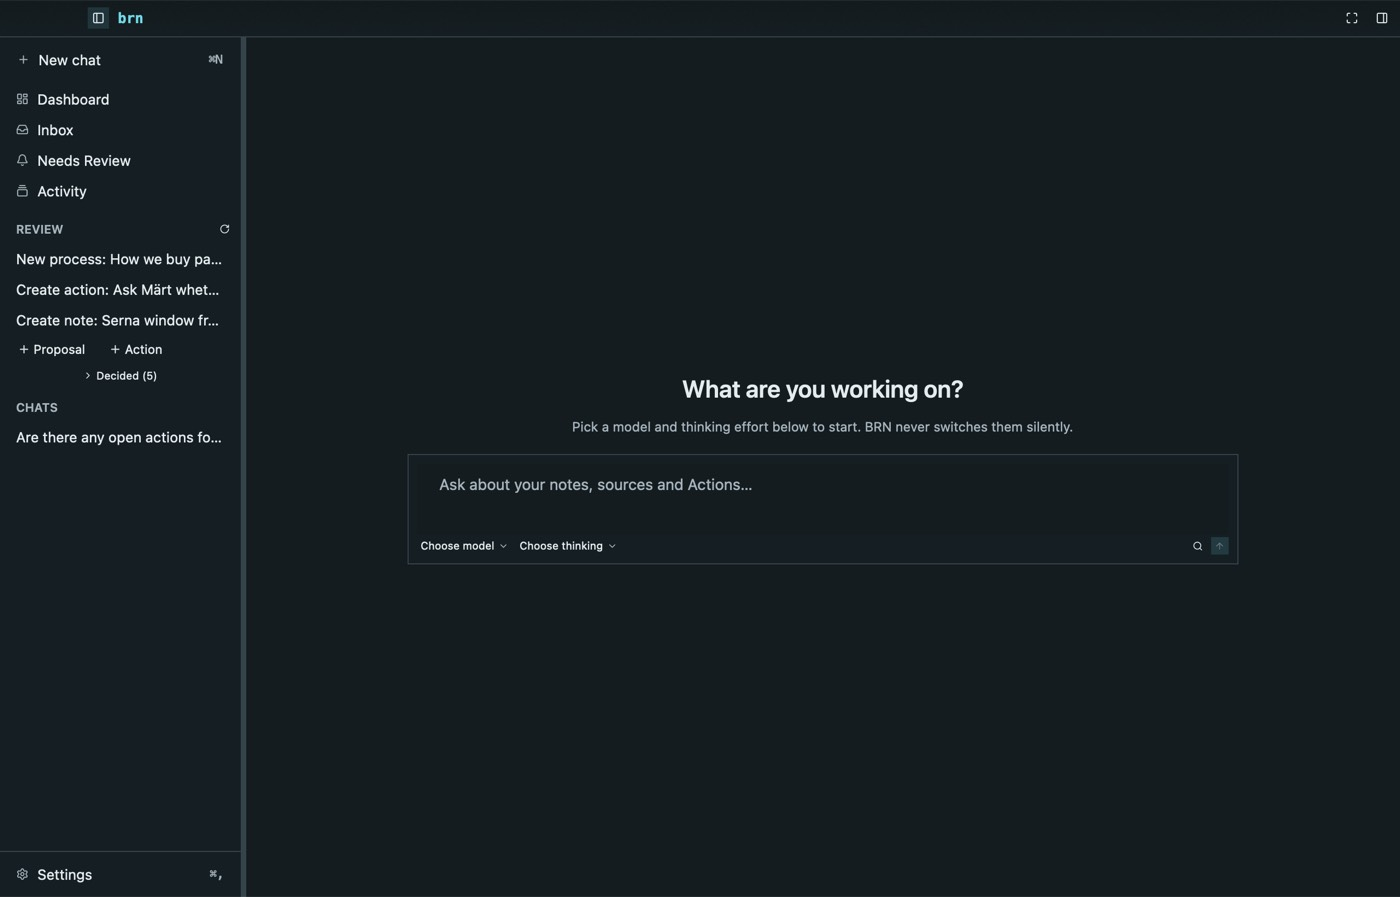
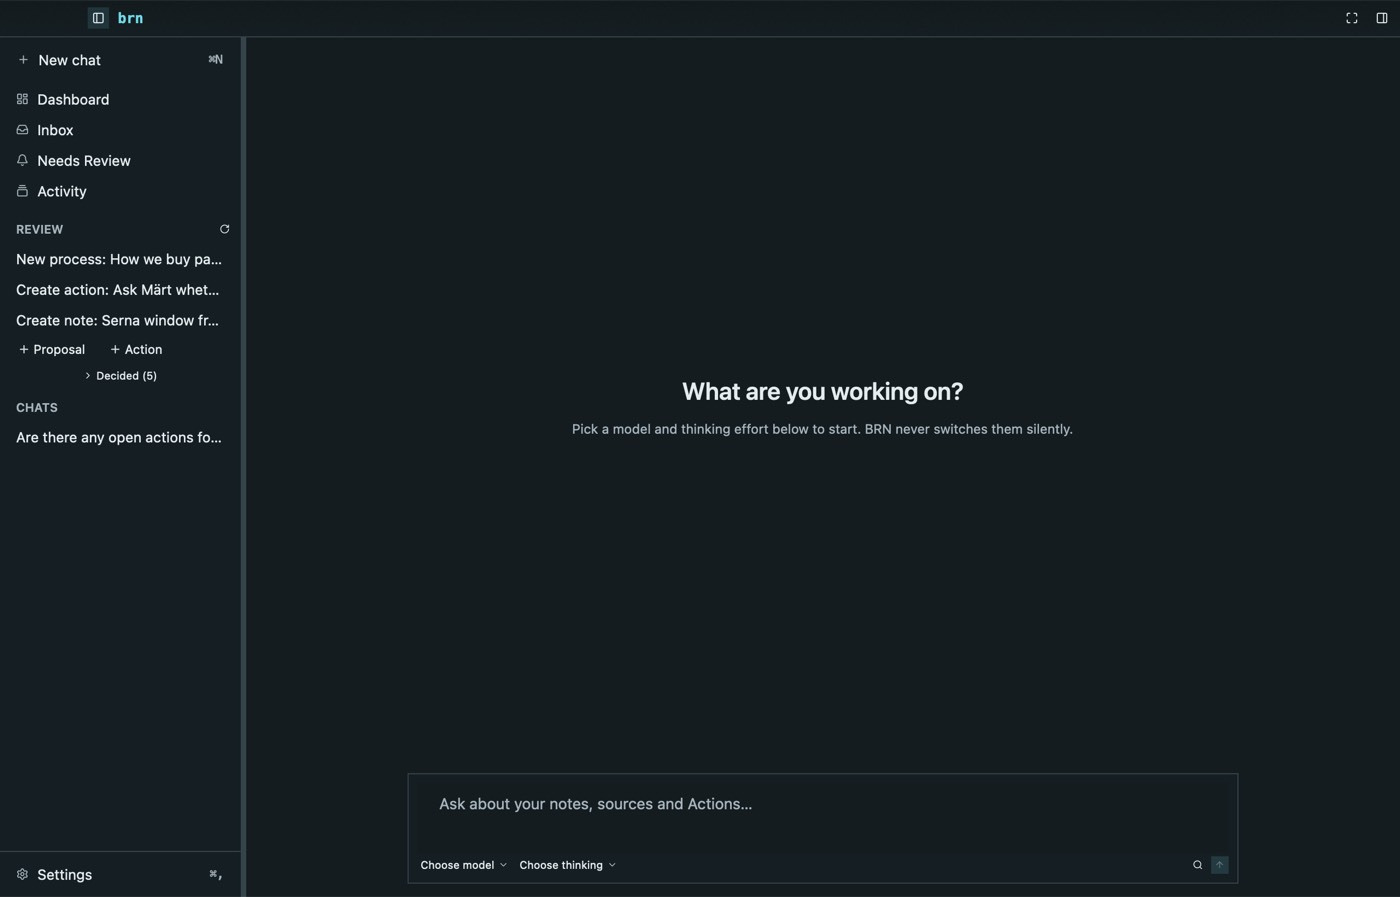
docs(design): terminal chat directions and owner round 2 decisions
Add the terminal-style chat prototype (pure terminal, hybrid,
command blocks) and record D20-D22, updated screenshots and
verification.

diff --git a/docs/design/src/prototypes/terminal-chat.html b/docs/design/src/prototypes/terminal-chat.html
@@ -1,0 +1,173 @@
+<!doctype html>
+<!--
+  PROTOTYPE — terminal-style chat directions for BRN. Not the production app.
+  Owner request 2026-10-08: "consider making the chat experience more terminal
+  like; propose some prototypes". Three structurally different variants, same
+  fictional conversation. Switch with the bar, keys 1/2/3, or ?v=a|b|c.
+  Colours and type come from ../generated/tokens.css (generated from tokens.rs).
+-->
+<html lang="en">
+<head>
+<meta charset="utf-8">
+<meta name="viewport" content="width=device-width, initial-scale=1">
+<title>PROTOTYPE · BRN terminal chat directions</title>
+<link rel="stylesheet" href="../generated/tokens.css">
+<style>
+  * { box-sizing: border-box; }
+  html, body { margin: 0; height: 100%; }
+  body { background: var(--brn-background); color: var(--brn-text); font: 13px/1.5 var(--brn-font-ui); display: flex; flex-direction: column; }
+  .bar { display: flex; gap: 10px; align-items: center; height: 32px; padding: 0 12px; flex: none; background: repeating-linear-gradient(45deg, color-mix(in srgb, var(--brn-amber) 22%, transparent) 0 10px, transparent 10px 20px); border-bottom: 1px solid var(--brn-amber); font-size: 12px; }
+  .bar strong { color: var(--brn-amber); font-family: var(--brn-font-mono); }
+  .bar button { font: inherit; color: var(--brn-text); background: var(--brn-panel); border: 1px solid var(--brn-line); padding: 2px 10px; cursor: pointer; }
+  .bar button[aria-pressed="true"] { background: var(--brn-cyan); color: var(--brn-background); border-color: var(--brn-cyan); }
+  .bar .note { color: var(--brn-muted); margin-left: auto; }
+  .stage { flex: 1; min-height: 0; display: flex; }
+  .side { width: 220px; flex: none; background: var(--brn-panel); border-right: 1px solid var(--brn-line); padding: 10px 8px; font-size: 13px; }
+  .side div { padding: 5px 8px; } .side .sel { background: var(--brn-active); }
+  .side .lab { color: var(--brn-muted); font-size: 11px; font-weight: 600; letter-spacing: .03em; margin-top: 12px; }
+  .chat { flex: 1; min-width: 0; display: flex; flex-direction: column; background: var(--brn-paper); }
+  .log { flex: 1; min-height: 0; overflow: auto; padding: 20px 28px; }
+  .col { max-width: 820px; margin: 0 auto; }
+  .mono { font-family: var(--brn-font-mono); }
+  .muted { color: var(--brn-muted); }
+  .cyan { color: var(--brn-cyan); } .amber { color: var(--brn-amber); } .purple { color: var(--brn-purple); } .green { color: var(--brn-green); } .red { color: var(--brn-red); }
+  .composer { flex: none; padding: 0 28px 14px; }
+  .composer .box { max-width: 820px; margin: 0 auto; border: 1px solid var(--brn-line); background: var(--brn-panel); }
+  textarea { width: 100%; resize: none; background: transparent; border: 0; color: var(--brn-text); outline: none; }
+  textarea:focus-visible { outline: 2px solid var(--brn-cyan); outline-offset: -2px; }
+  .picker { font: inherit; color: var(--brn-text); background: transparent; border: 0; }
+  .send { background: var(--brn-cyan); color: var(--brn-background); border: 0; padding: 2px 10px; cursor: pointer; font: inherit; font-weight: 600; }
+  .chip { font: 10.5px var(--brn-font-mono); padding: 0 4px; border: 1px solid; margin-left: 2px; }
+  .c-vault { color: var(--brn-green); border-color: color-mix(in srgb, var(--brn-green) 50%, transparent); }
+  .c-conf { color: var(--brn-red); border-color: color-mix(in srgb, var(--brn-red) 50%, transparent); }
+  .c-unk { color: var(--brn-amber); border-color: color-mix(in srgb, var(--brn-amber) 50%, transparent); }
+  [hidden] { display: none !important; }
+
+  /* A · Pure terminal: one monospace stream, prompt line, no bubbles */
+  .va .log { font: 13px/1.6 var(--brn-font-mono); }
+  .va .turn { margin-bottom: 18px; }
+  .va .prompt::before { content: "❯ "; color: var(--brn-cyan); font-weight: 700; }
+  .va .tool { color: var(--brn-muted); }
+  .va .tool::before { content: "  ⎿ "; color: var(--brn-line); }
+  .va .ans { color: var(--brn-text); white-space: pre-wrap; margin-top: 4px; }
+  .va .foot { color: var(--brn-muted); font-size: 11.5px; }
+  .va .composer .box { display: flex; align-items: flex-start; gap: 8px; padding: 10px 12px; font-family: var(--brn-font-mono); }
+  .va .composer .box::before { content: "❯"; color: var(--brn-cyan); font-weight: 700; line-height: 1.6; }
+  .va textarea { font: 13px/1.6 var(--brn-font-mono); height: 22px; }
+  .va .status { max-width: 820px; margin: 4px auto 0; font: 11.5px var(--brn-font-mono); color: var(--brn-muted); display: flex; gap: 14px; }
+
+  /* B · Hybrid: terminal chrome (prompt, mono metadata, tool lines) + proportional reading text */
+  .vb .turn { margin-bottom: 22px; }
+  .vb .q { font: 14px/1.5 var(--brn-font-mono); }
+  .vb .q::before { content: "› "; color: var(--brn-cyan); font-weight: 700; }
+  .vb .trace { font: 12px/1.6 var(--brn-font-mono); color: var(--brn-muted); border-left: 1px solid var(--brn-line); margin: 6px 0 6px 4px; padding-left: 10px; }
+  .vb .trace summary { cursor: pointer; list-style: none; }
+  .vb .trace summary::before { content: "▸ "; } .vb .trace[open] summary::before { content: "▾ "; }
+  .vb .ans { font: 15px/1.65 var(--brn-font-ui); }
+  .vb .foot { font: 11.5px var(--brn-font-mono); color: var(--brn-muted); margin-top: 6px; }
+  .vb .composer .box { padding: 8px 12px; }
+  .vb textarea { font: 14px/1.5 var(--brn-font-mono); height: 48px; }
+  .vb .row { display: flex; align-items: center; gap: 10px; font: 12px var(--brn-font-mono); color: var(--brn-muted); }
+
+  /* C · Command palette: blocks like a modern terminal (Warp-style), slash commands */
+  .vc .block { border: 1px solid var(--brn-line); background: var(--brn-panel); margin-bottom: 14px; }
+  .vc .bhead { display: flex; gap: 10px; align-items: center; padding: 6px 12px; border-bottom: 1px solid var(--brn-line); font: 12px var(--brn-font-mono); color: var(--brn-muted); }
+  .vc .bhead .cmd { color: var(--brn-text); font-weight: 600; }
+  .vc .bhead .cmd::before { content: "$ "; color: var(--brn-cyan); }
+  .vc .bbody { padding: 10px 12px; font: 14px/1.6 var(--brn-font-ui); background: var(--brn-paper); }
+  .vc .bact { display: flex; gap: 8px; padding: 6px 12px; border-top: 1px solid var(--brn-line); font: 12px var(--brn-font-mono); }
+  .vc .bact button { font: inherit; background: none; color: var(--brn-cyan); border: 0; cursor: pointer; padding: 0; }
+  .vc .composer .box { padding: 8px 12px; position: relative; }
+  .vc textarea { font: 14px/1.5 var(--brn-font-mono); height: 26px; }
+  .vc .menu { position: absolute; bottom: 100%; left: -1px; right: -1px; background: var(--brn-panel); border: 1px solid var(--brn-line); font: 12.5px var(--brn-font-mono); }
+  .vc .menu div { padding: 4px 12px; display: flex; gap: 12px; } .vc .menu div:first-child { background: var(--brn-active); }
+  .vc .menu b { color: var(--brn-cyan); font-weight: 600; min-width: 90px; }
+  .vc .row { display: flex; align-items: center; gap: 10px; font: 12px var(--brn-font-mono); color: var(--brn-muted); }
+</style>
+</head>
+<body>
+<div class="bar" role="note">
+  <strong>PROTOTYPE</strong><span>Terminal-style chat directions · fictional data</span>
+  <button data-v="a">1 · Pure terminal</button>
+  <button data-v="b">2 · Hybrid (recommended)</button>
+  <button data-v="c">3 · Command blocks</button>
+  <span class="note" id="note"></span>
+</div>
+<div class="stage">
+  <div class="side">
+    <div>＋ New chat</div><div>Dashboard</div><div>Inbox <span class="amber">3</span></div><div>Needs Review</div>
+    <div class="lab">CHATS</div><div class="sel">Reply to Anna about Serna</div><div>How we buy paint</div>
+  </div>
+
+  <!-- A -->
+  <section class="chat va" data-variant="a">
+    <div class="log"><div class="col">
+      <div class="turn"><div class="prompt">are there any open actions for serna?</div>
+        <div class="tool">searched vault · 3 actions · 2 sources · 12s</div>
+        <div class="ans">3 unfinished:
+  <span class="red">!</span> Reply to Anna's three questions   <span class="red">overdue</span> · due 6 Oct
+  <span class="amber">…</span> Final paint spec from Anna       <span class="amber">waiting</span> · follow up today
+  <span class="muted">⊘</span> Place paint order (Värvikoda)    <span class="muted">blocked by spec</span> · due 10 Oct</div>
+        <div class="foot">gpt-6.1-sol · medium · 9k tok   [vault] projects/serna.md  people/anna-tamm.md</div></div>
+      <div class="turn"><div class="prompt">write an answer to anna</div>
+        <div class="tool">read thread "Serna paint spec" · checked 8 sources</div>
+        <div class="tool">web: värvikoda lead times</div>
+        <div class="tool"><span class="purple">drafted proposal #reply-anna v1</span></div>
+        <div class="ans">Drafted a reply. Not established: <span class="amber">window-frame product line</span>. Conflict: <span class="red">colour</span> (approved dark red vs newer "blue").
+Nothing changed. Open with  <span class="cyan">:open reply-anna</span>   approve with  <span class="cyan">:approve</span></div>
+        <div class="foot">gpt-6.1-sol · medium · 31k / 40k tok · 41s</div></div>
+    </div></div>
+    <div class="composer"><div class="box"><textarea aria-label="Message" placeholder="ask, or :command"></textarea></div>
+      <div class="status"><span class="cyan">gpt-6.1-sol</span><span>medium ▾</span><span>scope: current</span><span>budget 40k</span><span style="margin-left:auto">⏎ send · ⌘. stop</span></div></div>
+  </section>
+
+  <!-- B -->
+  <section class="chat vb" data-variant="b" hidden>
+    <div class="log"><div class="col">
+      <div class="turn"><div class="q">Are there any open actions for Serna?</div>
+        <details class="trace"><summary>searched vault · 3 actions · 2 sources · 12s</summary>search_vault "serna open actions" → 3 hits<br>read projects/serna.md<br>read people/anna-tamm.md</details>
+        <div class="ans">Three Serna Actions are unfinished. The most urgent is replying to Anna's three questions — due yesterday<span class="chip c-vault">vault</span>. You are waiting for her final specification, which blocks the paint order<span class="chip c-vault">vault</span>.</div>
+        <div class="foot">gpt-6.1-sol · medium · 9k tok</div></div>
+      <div class="turn"><div class="q">Write an answer to Anna.</div>
+        <details class="trace" open><summary>8 steps · 41s · 31k / 40k tok</summary>read thread "Serna paint spec"<br>checked 8 sources<br>web: värvikoda lead times<br><span class="purple">drafted proposal · Reply to Anna · v1</span></details>
+        <div class="ans">I drafted a reply as a proposal. I could not establish the window-frame product line<span class="chip c-unk">unknown</span>, and the colour is disputed<span class="chip c-conf">conflict</span>. Nothing in the vault changed.</div>
+        <div class="foot">gpt-6.1-sol · medium · <span class="cyan">open proposal ↗</span></div></div>
+    </div></div>
+    <div class="composer"><div class="box"><textarea aria-label="Message" placeholder="› Ask about your notes, sources and Actions"></textarea>
+      <div class="row"><select class="picker" aria-label="Model"><option>gpt-6.1-sol</option><option>gpt-6-luna</option></select><select class="picker" aria-label="Thinking"><option>low</option><option selected>medium</option><option>high</option></select><span>scope current</span><span style="margin-left:auto">⏎ send</span><button class="send" aria-label="Ask">↑</button></div></div></div>
+  </section>
+
+  <!-- C -->
+  <section class="chat vc" data-variant="c" hidden>
+    <div class="log"><div class="col">
+      <div class="block"><div class="bhead"><span class="cmd">actions --project serna --open</span><span style="margin-left:auto">12s · 9k tok</span></div>
+        <div class="bbody">Three unfinished: <b>Reply to Anna</b> <span class="red">overdue</span> · <b>Final spec from Anna</b> <span class="amber">waiting</span> · <b>Place paint order</b> <span class="muted">blocked</span><span class="chip c-vault">vault</span></div>
+        <div class="bact"><button>open dashboard</button><button>draft reply</button><button>copy</button></div></div>
+      <div class="block"><div class="bhead"><span class="cmd">draft reply --to anna</span><span class="purple">proposal v1</span><span style="margin-left:auto">41s · 31k / 40k tok</span></div>
+        <div class="bbody">Reply drafted. Unknown: window-frame product line<span class="chip c-unk">unknown</span>. Disputed: colour<span class="chip c-conf">conflict</span>. Nothing changed.</div>
+        <div class="bact"><button>open proposal</button><button>rewrite</button><button>approve…</button></div></div>
+    </div></div>
+    <div class="composer"><div class="box">
+      <div class="menu" id="menuC"><div><b>/draft</b>write something as a proposal</div><div><b>/actions</b>list or filter Actions</div><div><b>/inbox</b>process waiting items</div><div><b>/search</b>search notes (no AI)</div><div><b>/model</b>switch model or thinking</div></div>
+      <textarea aria-label="Message">/</textarea>
+      <div class="row"><span class="cyan">gpt-6.1-sol</span><span>medium</span><span style="margin-left:auto">/ for commands · ⏎ send</span></div></div></div>
+  </section>
+</div>
+<script>
+const notes = {
+  a: 'Everything monospace; prompts and tool lines like a CLI. Densest; least readable for long answers.',
+  b: 'Terminal chrome (prompt, mono metadata, collapsible trace) with proportional answers. Keeps reading comfort.',
+  c: 'Each turn is a command block with actions; "/" opens commands. Most structured; heavier visually.',
+};
+function show(v) {
+  document.querySelectorAll('[data-variant]').forEach(s => s.hidden = s.dataset.variant !== v);
+  document.querySelectorAll('[data-v]').forEach(b => b.setAttribute('aria-pressed', b.dataset.v === v));
+  document.getElementById('note').textContent = notes[v];
+  history.replaceState(null, '', '?v=' + v);
+}
+document.querySelectorAll('[data-v]').forEach(b => b.onclick = () => show(b.dataset.v));
+document.addEventListener('keydown', e => { if (document.activeElement.tagName === 'TEXTAREA') return; const v = { 1: 'a', 2: 'b', 3: 'c' }[e.key]; if (v) show(v); });
+show(new URLSearchParams(location.search).get('v') || 'b');
+</script>
+</body>
+</html>

diff --git a/docs/design/src/decisions.md b/docs/design/src/decisions.md
@@ -25,6 +25,9 @@ owner column. Add new decisions at the end; supersede rather than rewrite.
 | D17 | Model and thinking-effort pickers in the composer | Owner direction, implemented | Owner feedback 2026-10-07 |
 | D18 | Select text and right-click to comment in proposals | Owner direction, implemented | Owner feedback 2026-10-07 |
 | D19 | Keep the refined-terminal theme | Owner liked it (feedback 2026-10-07) | Liked; formal acceptance pending |
+| D20 | Composer always at the bottom | Owner direction, implemented | Owner feedback 2026-10-08 |
+| D21 | Writing review: compact header, prominent prose text, visible comment highlights with hover | Owner direction, implemented | Owner feedback 2026-10-08 |
+| D22 | Terminal-style chat: three directions prototyped, Hybrid recommended | Proposed, prototype | Owner choice pending |
 
 ## D1 Keep the refined-terminal identity, correct its typography
 
@@ -137,6 +140,36 @@ and discovering models stay in Settings (linked from the model menu).
 Owner feedback: commenting should work by selecting text and right-clicking.
 The proposed-text editor's right-click menu offers *Comment on selection…*,
 *Copy* and *Select All*; the existing exact-selection comment flow is reused.
+
+## D20 Composer always at the bottom
+
+Owner feedback 2026-10-08, with a Codex desktop reference: the message box
+belongs at the bottom from the start, not in the middle. An empty chat centres
+only the greeting.
+
+## D21 Writing review
+
+Owner feedback 2026-10-08: highlighting was hard to see; the proposed text should
+be more prominent; the upper part should be more compact; comments should be
+visible in the text and readable on hover, like Word. Implemented:
+- One compact header row: state badge, editable title, and a single identity
+  line (`Create · path · vN`); the trust callout moved into the decision bar
+  sentence; member chips only when a proposal has several members.
+- The proposed text is the main element: it fills the pane, uses the reading
+  font at 15 pt, with no line numbers or folding gutter.
+- Every exactly anchored text comment is shown as an amber highlight; hovering
+  it shows the comment (the editor's hover popup). Anchors whose quote no longer
+  matches are not drawn (never guessed) and remain in the comment list below.
+- Text selection uses a clearly visible cyan tint in both themes.
+
+## D22 Terminal-style chat directions
+
+Owner request 2026-10-08. [Prototype](prototypes.md#terminal-style-chat-directions):
+**1 · Pure terminal** (all monospace, `❯` prompts, tool lines, `:commands`),
+**2 · Hybrid** (prompt and metadata in mono, collapsible trace, proportional
+answers with claim chips — *recommended*: terminal feel without losing reading
+comfort for long answers), **3 · Command blocks** (each turn a block with
+actions; `/` command menu). Not implemented; waiting for the owner's choice.
 
 ## Earlier design material reconciled
 

diff --git a/docs/design/src/verification.md b/docs/design/src/verification.md
@@ -68,11 +68,23 @@ right-click *Comment on selection…* action on a real selection and checks that
 the exact-selection comment dialog opens. Native right-click by hand remains to
 be tried.
 
+### Owner feedback round 2 (2026-10-08)
+
+Feedback: composer at the bottom; propose terminal-style chat; writing review
+needs work (hard-to-see highlighting, more prominent text, compact top, Word-like
+comment highlights with hover). Implemented as D20–D21; D22 prototyped. Native
+tests 302 + 7 pass (new: highlight/hover marks test). The capture tour now seeds
+two anchored comments and adds a light-theme proposal screen. A re-entrant
+editor update found during capture was fixed. The hover popup itself was not
+exercised by hand.
+
 ## Owner acceptance
 
 | Item | Decision | Date |
 | --- | --- | --- |
 | Design direction and decisions D1–D15 | *Pending review* | — |
 | D16–D18 (minimal layout, composer pickers, right-click comments) | Owner-directed; result pending your next look | 2026-10-07 |
+| D20–D21 (bottom composer, writing review) | Owner-directed; result pending your next look | 2026-10-08 |
+| D22 terminal chat direction | *Choice pending* | — |
 | Current-app restyle on this branch | *Pending review* | — |
 | Future designs and prototype | *Pending review* | — |

diff --git a/docs/design/src/brn-patterns.md b/docs/design/src/brn-patterns.md
@@ -47,7 +47,9 @@ stated in words (“has not been decided”). See the [prototype](prototypes.md)
 
 Drafts are private and persisted, but never masquerade as current knowledge.
 Comments are temporary review notes, deleted after successful approval. Select
-text in the proposed text and right-click → *Comment on selection…* (D18). Rewrite
+text in the proposed text and right-click → *Comment on selection…* (D18). Each
+exactly anchored comment is highlighted in the text and shown on hover (D21);
+anchors that no longer match are listed below the text, never re-placed. Rewrite
 runs on the selected model with a visible phase (“Rewriting · knowledge
 unchanged”), can be stopped, and replaces the whole draft as a new version.
 

diff --git a/docs/design/src/prototypes.md b/docs/design/src/prototypes.md
@@ -23,6 +23,16 @@ built handbook.
 Use the bar at the top (or `?state=` and `?scheme=` in the URL) to switch:
 *Empty*, *Loading*, *Error*, *AI unavailable*, and *Light* theme.
 
+## Terminal-style chat directions
+
+**[Open the terminal chat prototype](prototypes/terminal-chat.html)** —
+readiness: **Prototype** (decision D22). Switch variants with the bar, keys 1–3
+or `?v=a|b|c`.
+
+| 1 · Pure terminal | 2 · Hybrid (recommended) | 3 · Command blocks |
+| --- | --- | --- |
+| ![Pure terminal](images/prototype/terminal-a.jpg) | ![Hybrid](images/prototype/terminal-b.jpg) | ![Command blocks](images/prototype/terminal-c.jpg) |
+
 ## Verified behaviour
 
 A Playwright script (headless Chromium 1243) exercises the journeys above,

diff --git a/docs/design/src/screens-current.md b/docs/design/src/screens-current.md
@@ -65,6 +65,14 @@ labelled sections (Title, Changes with kind badges, before/proposed text, source
 versions, Comments and Rewrite, Review state); and a **pinned decision bar**
 naming the exact version, with *Reject* and the primary *Review exact approval…*.
 
+### Writing review (light), after owner feedback 2026-10-08
+
+![Proposal review, light](images/current/13-proposal-review-light.jpg)
+
+Compact one-row header; the proposed text fills the pane in the reading font;
+the two seeded comments show as amber highlights (hover shows each comment);
+the decision bar states the consequence and holds Reject and Approve.
+
 ## Needs Review, Activity, note and evidence
 
 | Needs Review | Activity |
